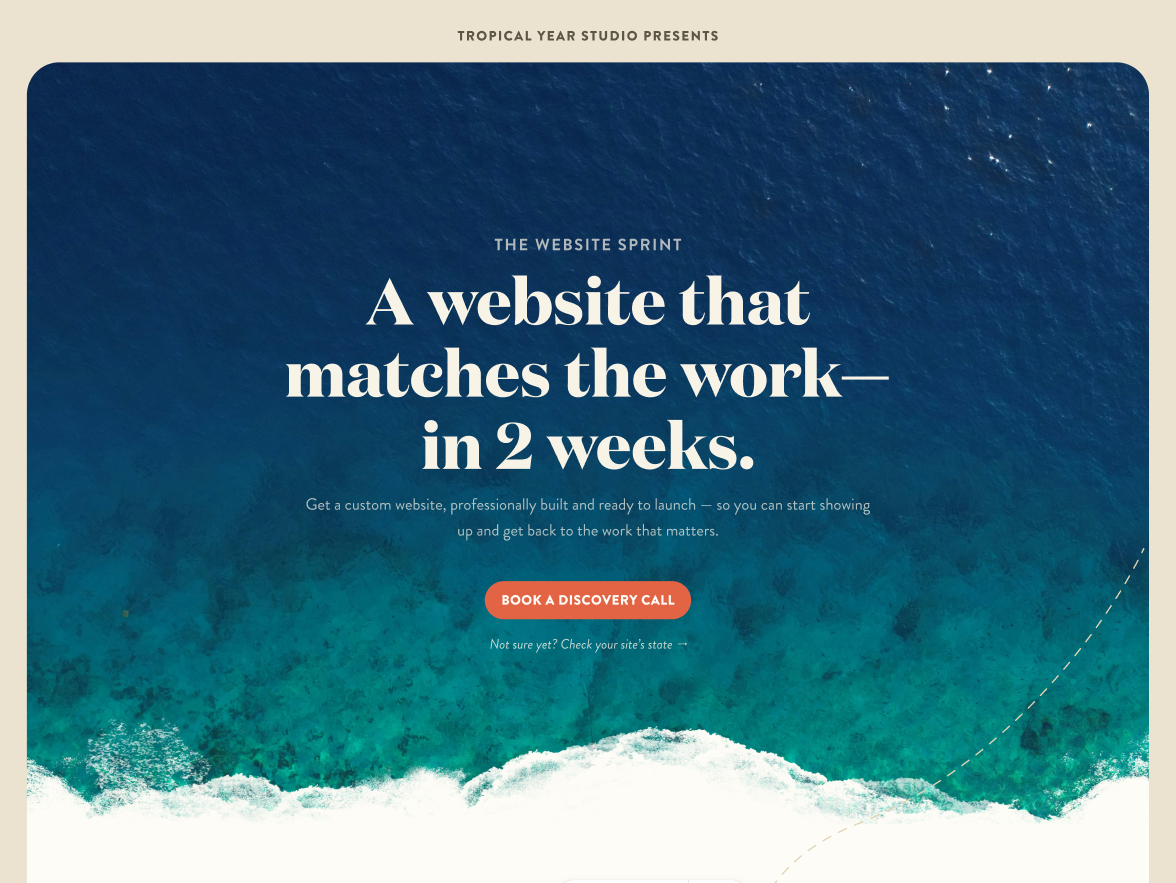
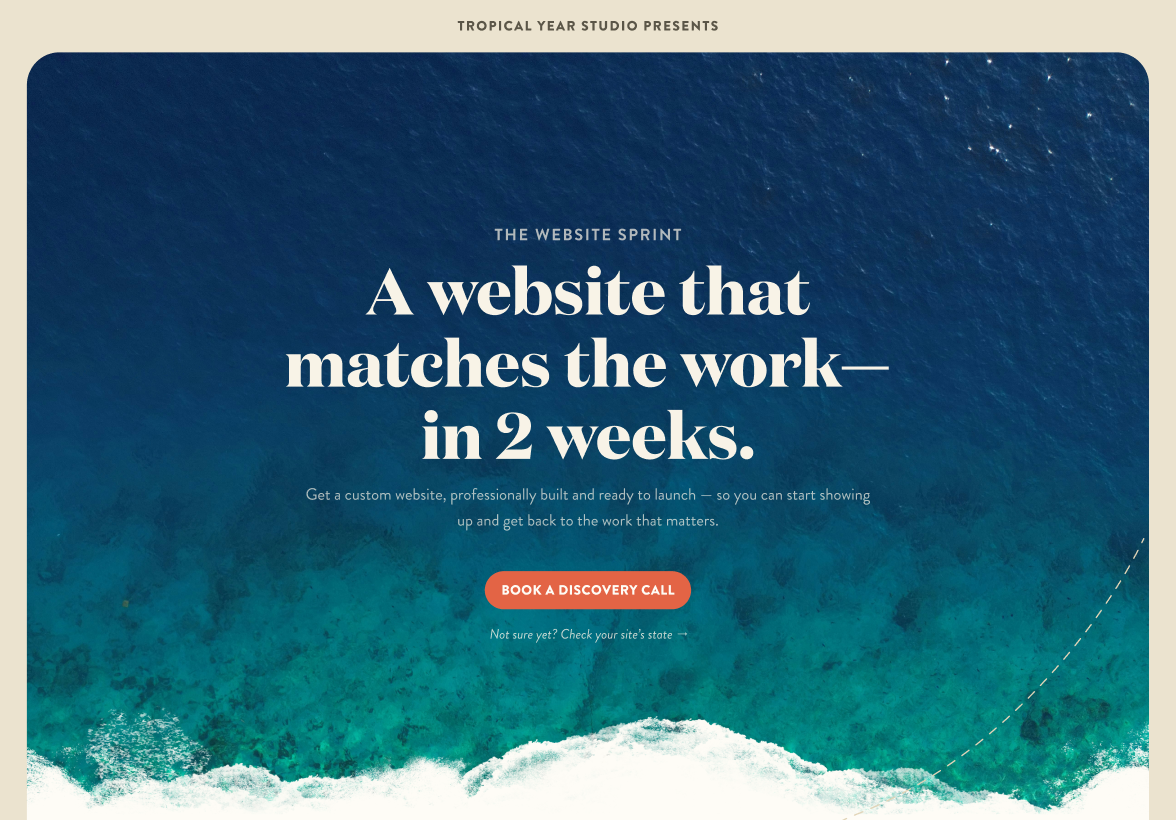
responsiveness

diff --git a/src/data/homeProjectGallerySlides.js b/src/data/homeProjectGallerySlides.js
@@ -1,18 +1,18 @@
 /**
  * Hero gallery on Home: Onix first, then each project's first screenshot in `projects.jsx` → `projectsData` order.
  */
-import splitsquids1 from '../images/projects/splitsquid1.png';
-import websitesprint1 from '../images/projects/websitesprint1.png';
-import safehalt1 from '../images/projects/safehalt1.png';
-import gp1 from '../images/projects/gp_1.png';
-import coding_temple1 from '../images/projects/ct_1.png';
-import yr1 from '../images/projects/yr_1.png';
-import ds1 from '../images/projects/ds_1.png';
-import onix2 from '../images/projects/onix2.png';
-import sunrise1 from '../images/projects/sunrise1.png';
 import cb1 from '../images/projects/cb1.png';
-import venus1 from '../images/projects/venus1.png';
+import coding_temple1 from '../images/projects/ct_1.png';
+import ds1 from '../images/projects/ds_1.png';
 import figuritas1 from '../images/projects/figuritas1.png';
+import gp1 from '../images/projects/gp_1.png';
+import jera2 from '../images/projects/je2.png';
+import onix2 from '../images/projects/onix2.png';
+import safehalt1 from '../images/projects/safehalt1.png';
+import splitsquids1 from '../images/projects/splitsquid1.png';
+import sunrise1 from '../images/projects/sunrise1.png';
+import websitesprint1 from '../images/projects/websitesprint1.png';
+import yr1 from '../images/projects/yr_1.png';
 
 /** @typedef {{ src: string; titleKey: string }} HomeProjectGallerySlide */
 
@@ -28,6 +28,6 @@ export const HOME_PROJECT_GALLERY_SLIDES = [
   { src: ds1, titleKey: 'projectsData.lavanderiadaserras.title' },
   { src: sunrise1, titleKey: 'projectsData.sunrise.title' },
   { src: cb1, titleKey: 'projectsData.codingBot.title' },
-  { src: venus1, titleKey: 'projectsData.venusSd.title' },
+  { src: jera2, titleKey: 'projectsData.jera.title' },
   { src: figuritas1, titleKey: 'projectsData.qatarCollection.title' },
 ];

diff --git a/src/views/Navbar.css b/src/views/Navbar.css
@@ -18,6 +18,10 @@
   z-index: 1100;
 }
 
+.navbar.light-theme {
+  color: #636363;
+}
+
 .navbar.dark-theme {
   background-color: #070707;
   box-shadow: inset;
@@ -33,7 +37,7 @@
   flex-wrap: nowrap;
   justify-content: center;
   align-items: center;
-  gap: 12px 16px;
+  gap: 12px 24px;
   width: 100%;
   max-width: min(1200px, 100%);
   margin: 0 auto;
@@ -107,14 +111,26 @@
 
 .navbar a {
   margin: 0;
-  padding: 6px 10px;
+  padding: 8px 14px;
   text-decoration: none;
   color: inherit;
   display: inline-block;
 }
 
+.navbar.light-theme a {
+  color: #636363;
+}
+
+.navbar.light-theme a:hover {
+  color: #3d3d3d;
+}
+
 .navbar a:hover {
   color: #555;
+}
+
+.navbar.dark-theme a {
+  color: inherit;
 }
 
 .navbar.dark-theme a:hover {
@@ -129,7 +145,7 @@
   list-style-type: none;
   margin: 0;
   padding: 0;
-  gap: 4px 2px;
+  gap: 8px clamp(18px, 2.8vw, 36px);
   width: 100%;
   max-width: 100%;
   box-sizing: border-box;
@@ -141,6 +157,11 @@
 
 /* Desktop */
 @media (min-width: 769px) {
+  .menuList {
+    flex-wrap: nowrap;
+    gap: 0 clamp(22px, 3vw, 40px);
+  }
+
   .navbar-burger {
     display: none !important;
   }

diff --git a/src/views/projects.css b/src/views/projects.css
@@ -12,7 +12,6 @@
   padding-bottom: clamp(4rem, 14vw, 7rem);
   box-sizing: border-box;
   position: relative;
-  z-index: 0;
 }
 
 .gallery-title {
@@ -142,19 +141,6 @@
   box-sizing: border-box;
   max-height: 80vh;
   overflow-y: auto; 
-}
-
-.modal-overlay {
-  position: fixed;
-  top: 0;
-  left: 0;
-  width: 100%;
-  height: 100%;
-  background: rgba(0, 0, 0, 0.5);
-  display: flex;
-  align-items: center;
-  justify-content: center;
-  z-index: 1000;
 }
 
 .modal-image {
